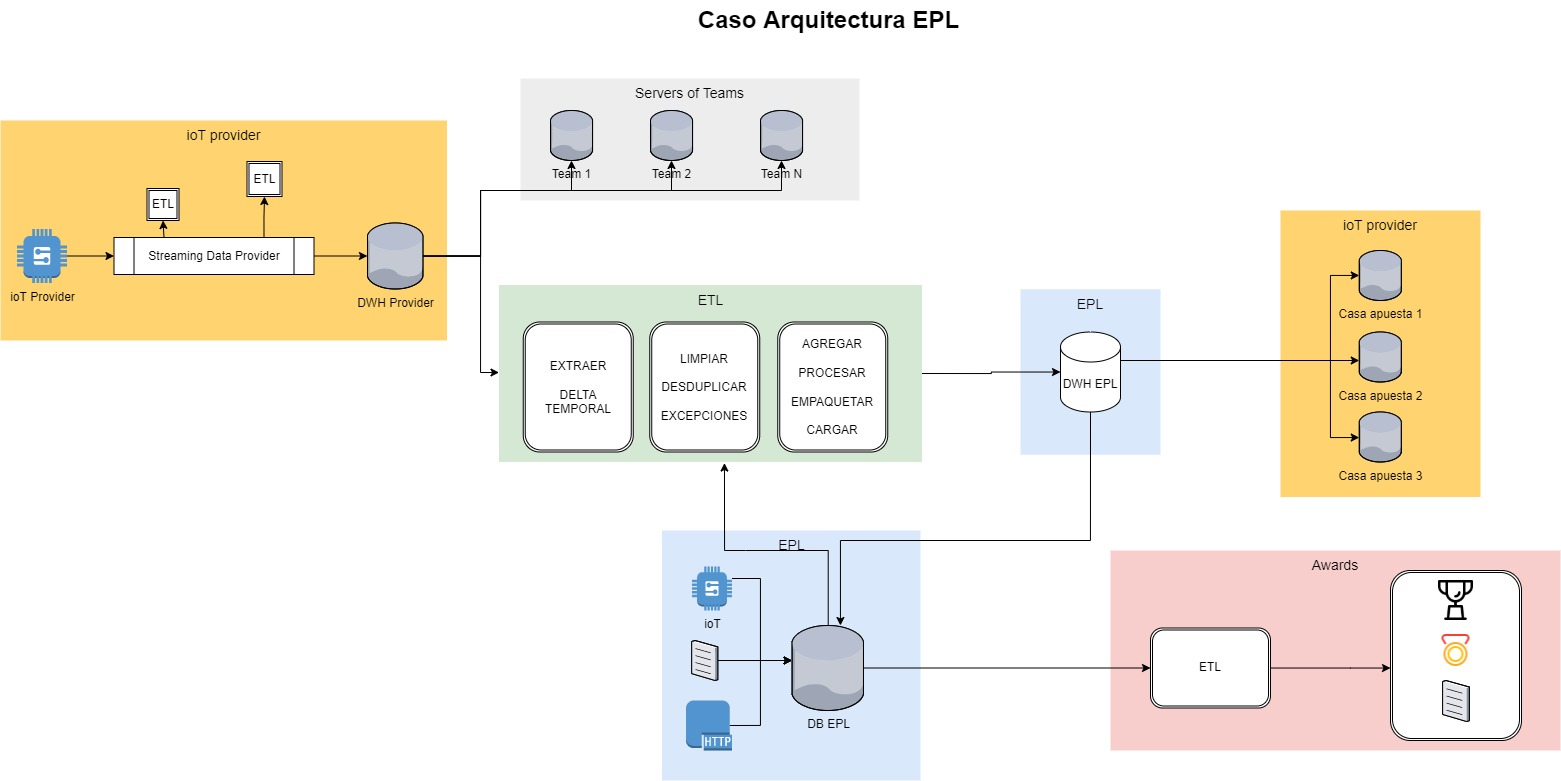
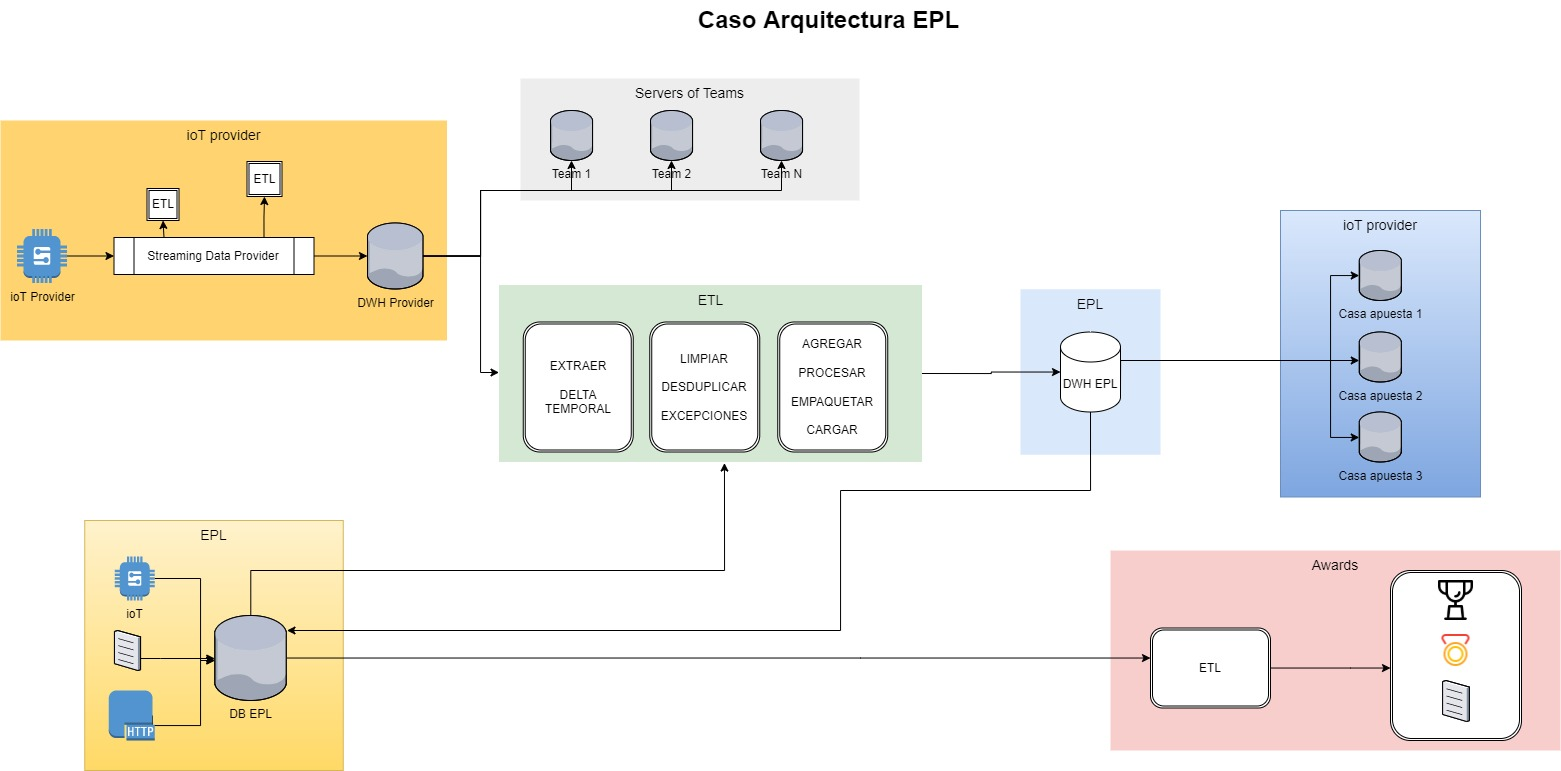
fix: fix in diagram and fix in redaction and bad words in readme_solution

diff --git a/README_SOLUTION.md b/README_SOLUTION.md
@@ -18,8 +18,8 @@ Los campos que encontre mas relevantes:
 - PE: porcentaje de efectividad de un equipo (GOALS_FOR/SHOTS_ON_TARGET)
 - POSITION: lugar en el cual quedo posicionado en la temporada (de 1 a 20, donde 1 es el campeón)
 
-El objetivo de construir un modelo de datos de esta manera es facilitar la analitica posterior a consolidación de los datos, ya que si tuvieramos esta data en una base de datos podríamos consultar facilmente todo y mas de lo que se pide responder por cada temporada.
-Supuesto: Imaginemos que la data respuesta del ETL es una tabla en GCP llamada TABLA:
+El objetivo de construir un modelo de datos de esta manera es facilitar la analitica posterior a consolidación de los datos, ya que si tuvieramos estos datos en una base de datos podríamos consultar facilmente todo y mas de lo que se pide responder por cada temporada.
+Supuesto: Imaginemos que los datos de respuesta del ETL es una tabla en GCP llamada TABLA:
 
 Ej1; Equipo campeon: Select SEASON, TEAM, case when POSITION = 1 then 'Campeon' else '' end from TABLA where POSITION = 1
 Ej2; Equipo mas goleador: Select SEASON, TEAM, max(GOALS_FOR) from TABLA
@@ -30,8 +30,11 @@ Ej3; Equipo con mayor efecitividad de goles vs disparos al arco: Select SEASON, 
 Se decidio dockerizar la solución, esto con el objetivo de que se pueda ejecutar en cualquier entorno siempre con las mismas versiones de python y librerías de python utilizadas en el desarrollo mismo del ETL, me pareció una solución rápida que cumple con los requerimientos y no complejitza el objetivo del challenge. 
 
 La idea es clonar el repositorio -> clonar el repositorio y luego correr los siguientes comandos:
+
 - docker build -t app:latest .
 - docker run > premier_league.csv (para que nos arroje un archivo csv con el resultado del ETL)
+
+Esto ejecutará el archivo ETL_EPL.py que hay dentro de la carpeta src y correra el ETL, dando como resultado un archivo premier_league.csv que quedará guardado en la carpeta raíz.
 
 dejé publicada la imagen acá: https://hub.docker.com/repository/docker/caadiazv/app
 
@@ -41,10 +44,10 @@ Se decidió no complejizar la solución y limitarse al objetivo que era realizar
 
 # CASO DE ARQUITECTURA
 
-Para diseñar una arquitectura que de solución a los requerimientos, decidí pensar en como quiero recibir la data para posteriormente crear el modelo de datos que respondan a la necesidad de seleccionar los ganadores de los premios. En base a eso estableci una serie de supuestos que escribiré a continuación:
+Para diseñar una arquitectura que de solución a los requerimientos, decidí pensar en como quiero recibir los datos para posteriormente crear el modelo de datos que respondan a la necesidad de seleccionar los ganadores de los premios. En base a eso estableci una serie de supuestos que escribiré a continuación:
 
 - Existe un dispositivo ioT que transmiten los datos a un centro de procesamiento y luego la envía a cada Team y a un DWH del proovedor del dispositivo ioT.
-- La EPL tiene su propia BD donde consolida toda la información relevante que puede provenir de un dispositivo ioT, archivos, otra bd, que va registrando la información durante el partido. La información de la base de datos de la EPL debería contener data histórica de los equipos, mas detalles de los partidos antes y en tiempo real y información de cada jugador.
-- La base de la EPL deberia cruzarse con la data stremeada del DWH del proovedor del dispositivo ioT que registra las tres variables de los jugadores (distancia recorrida en el tiempo de juego, agua perdida y minutos jugados) y realizar un proceso de ETL en donde se stremea hacia las distintas casas de apuestas.
-- El streaming de data de los dispositivos ioT se envía aparte a cada equipo para el posterior analisis interno. 
+- La EPL tiene su propia BD donde consolida toda la información relevante que puede provenir de un dispositivo ioT, archivos, otra bd, que va registrando la información durante el partido. La información de la base de datos de la EPL debería contener los datos históricos de los equipos, mas detalles de los partidos antes y en tiempo real y información de cada jugador.
+- La base de la EPL deberia cruzarse con los datos stremeada del DWH del proovedor del dispositivo ioT que registra las tres variables de los jugadores (distancia recorrida en el tiempo de juego, agua perdida y minutos jugados) y realizar un proceso de ETL en donde se stremea hacia las distintas casas de apuestas.
+- El streaming de datos de los dispositivos ioT se envía aparte a cada equipo para el posterior analisis interno. 
 - La EPL consolida toda la información de los partidos, información historica de partidos, informacion de teams e información que capta de los dispositivos en porta cada jugador. De acá se toma la información se realiza un ETL similar al que se realizó en el challenge de ETL Job y se listan los premios a entregar.
